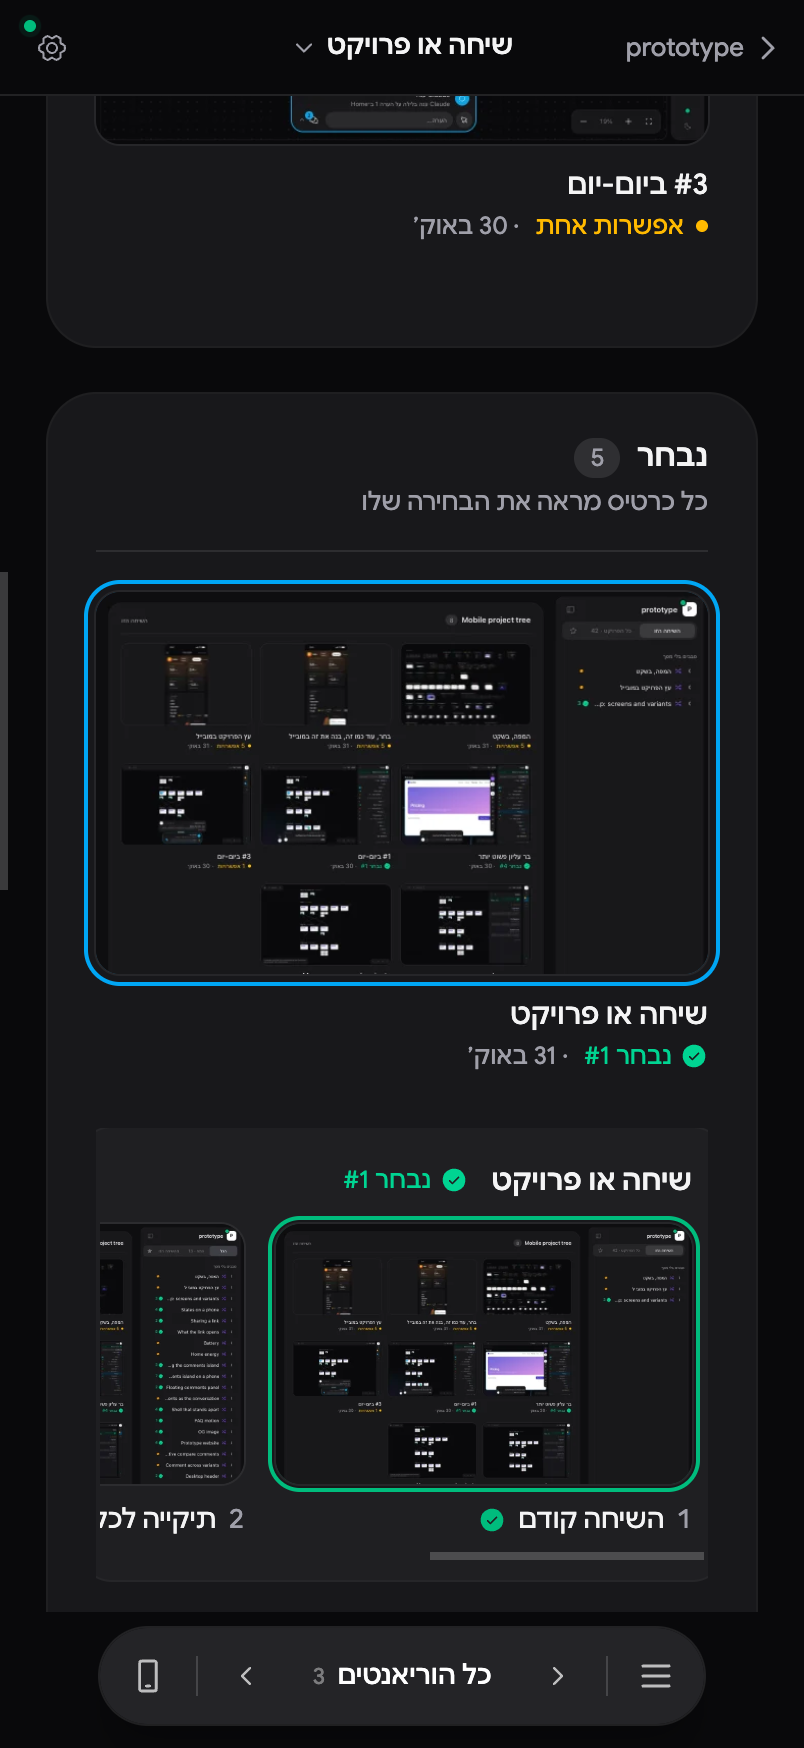
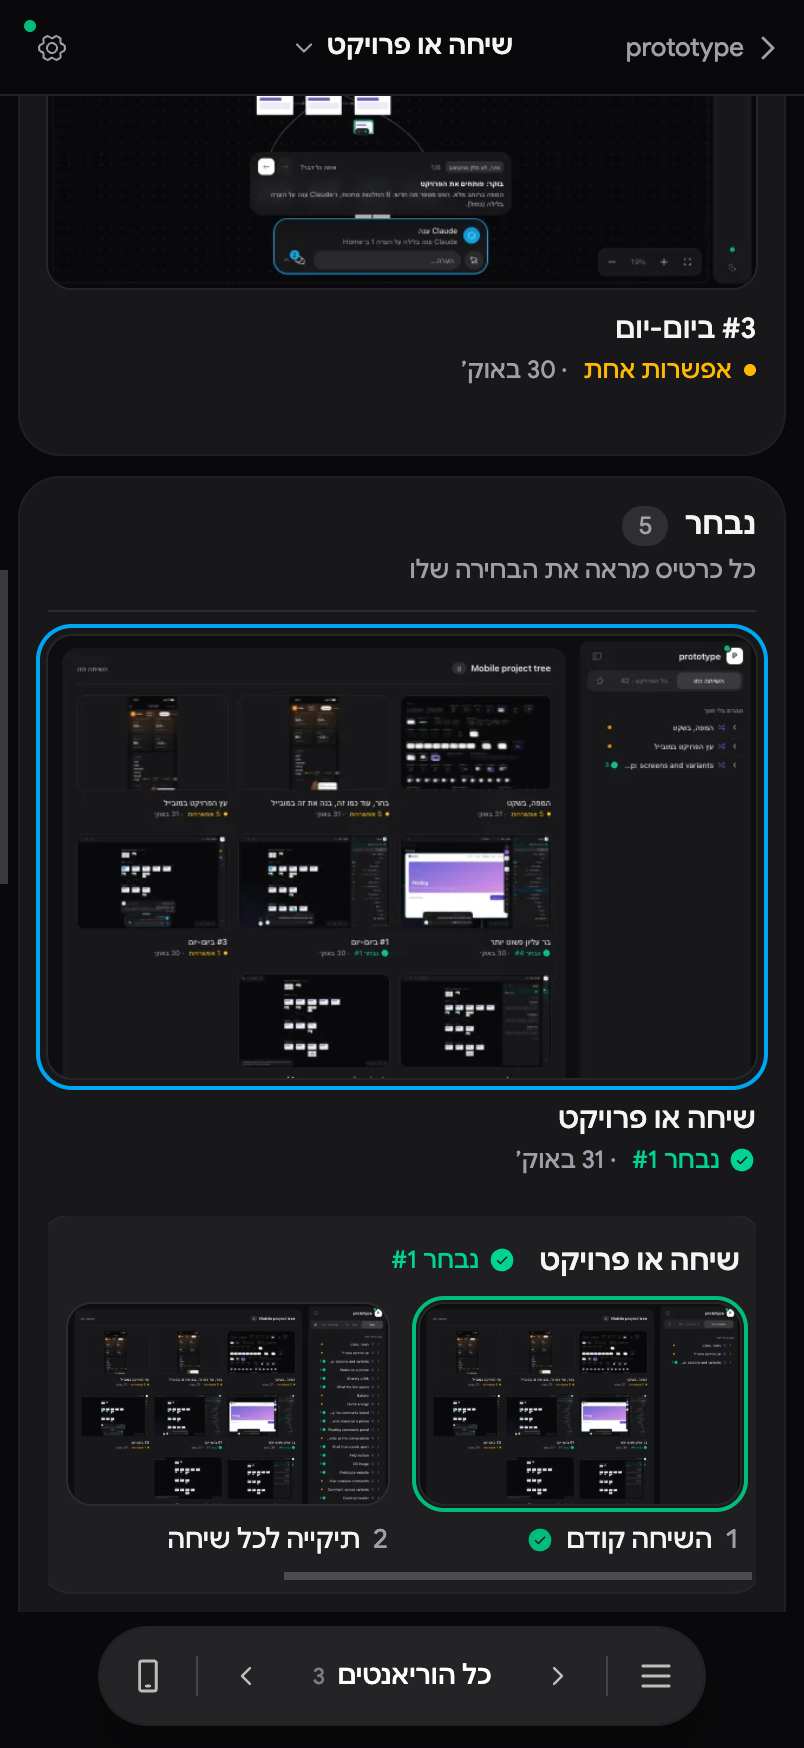
fix: less padding around the gallery on a phone

diff --git a/app/shell/map/gallery.tsx b/app/shell/map/gallery.tsx
@@ -46,7 +46,7 @@ function useInView<T extends HTMLElement>() {
 function Card({ p, on, dim, pic, onClick }: { p: Proto; on: boolean; dim: boolean; pic: Pic; onClick: () => void }) {
   const [ref, seen] = useInView<HTMLButtonElement>()
   return (
-    <button ref={ref} type="button" data-gallery-card={p.id} aria-expanded={on} onClick={onClick} className={`group min-w-0 pb-7 text-start transition-opacity duration-300 ${dim ? 'opacity-50 hover:opacity-80' : ''}`}>
+    <button ref={ref} type="button" data-gallery-card={p.id} aria-expanded={on} onClick={onClick} className={`group min-w-0 pb-5 text-start sm:pb-7 transition-opacity duration-300 ${dim ? 'opacity-50 hover:opacity-80' : ''}`}>
       <div className={`rounded-xl ring-sky-500 ring-offset-[var(--desk-card)] transition-[box-shadow,transform] duration-300 ${on ? 'ring-2 ring-offset-4' : 'group-hover:-translate-y-0.5'}`} style={{ transitionTimingFunction: EASE_OUT }}>
         <Thumb p={p} letter={p.picked ?? p.variants[0]?.id ?? 'A'} pic={pic} want={seen} />
       </div>
@@ -71,13 +71,13 @@ function Drawer({ p, pic, open }: { p: Proto | null; pic: Pic; open: (route: str
     <div ref={box} className={`col-span-full grid transition-[grid-template-rows,opacity] motion-reduce:transition-none ${p ? 'grid-rows-[1fr] opacity-100 duration-[340ms]' : 'grid-rows-[0fr] opacity-0 duration-[240ms]'}`} style={{ transitionTimingFunction: p ? EASE_OUT : EASE_IN }}
       onTransitionEnd={e => { if (!p && e.target === e.currentTarget && e.propertyName === 'grid-template-rows') setShown(null) }}>
       <div className="min-h-0 overflow-hidden">{shown && (
-        <div className="pb-7">
-          <div data-gallery-options={shown.id} className="-mx-2 rounded-2xl bg-zinc-900/[.03] p-4 ring-1 ring-black/[.06] dark:bg-white/[.03] dark:ring-white/[.06]">
+        <div className="pb-5 sm:pb-7">
+          <div data-gallery-options={shown.id} className="-mx-1 rounded-2xl bg-zinc-900/[.03] p-3 sm:-mx-2 sm:p-4 ring-1 ring-black/[.06] dark:bg-white/[.03] dark:ring-white/[.06]">
             <div className="mb-3 flex items-center gap-3 text-sm"><b dir="auto" className="font-semibold">{shown.title}</b><Status p={shown} /></div>
             <div className="-m-1.5 flex gap-4 overflow-x-auto p-1.5 pb-2.5 [scrollbar-width:thin]">
               {shown.variants.map((v, i) => (
                 <button key={v.id} type="button" data-gallery-option={`${shown.id}/${v.id}`} onClick={() => open(`${shown.id}/${v.id}`)} title={t('Open')}
-                  className="group w-52 shrink-0 text-start motion-safe:animate-[proto-gallery-rise_.4s_cubic-bezier(.32,.72,0,1)_both]" style={{ animationDelay: `${60 + i * 35}ms` }}>
+                  className="group w-40 shrink-0 text-start sm:w-52 motion-safe:animate-[proto-gallery-rise_.4s_cubic-bezier(.32,.72,0,1)_both]" style={{ animationDelay: `${60 + i * 35}ms` }}>
                   <div className={`rounded-xl transition-transform duration-200 group-hover:-translate-y-0.5 ${shown.picked === v.id ? 'ring-2 ring-emerald-500 ring-offset-2 ring-offset-[var(--desk-card)]' : ''}`}><Thumb p={shown} letter={v.id} pic={pic} want /></div>
                   <div className="mt-2 flex items-center gap-1.5 text-[13px]"><span className="tabular-nums text-zinc-400">{numberOf(v.id)}</span><span dir="auto" className="truncate">{v.name}</span>{shown.picked === v.id && <Ph name="checkFill" className="size-3.5 text-emerald-500" />}</div>
                 </button>
@@ -95,13 +95,13 @@ function Section({ id, title, hint, list, cols, pic, open, openId, setOpenId }: 
   const rows = Array.from({ length: Math.ceil(list.length / cols) }, (_, r) => list.slice(r * cols, r * cols + cols))
   const here = list.some(p => p.id === openId)
   return (
-    <section data-gallery-section={id} className="mb-6 rounded-3xl bg-[var(--desk-card)] p-6 pt-5 ring-1 ring-[var(--desk-line)]">
-      <header className="mb-5 flex flex-wrap items-baseline gap-x-2 gap-y-1 border-b border-[var(--desk-line)] pb-4">
+    <section data-gallery-section={id} className="mb-3 rounded-[20px] bg-[var(--desk-card)] p-3.5 pt-3 ring-1 ring-[var(--desk-line)] sm:mb-6 sm:rounded-3xl sm:p-6 sm:pt-5">
+      <header className="mb-3 flex flex-wrap items-baseline gap-x-2 gap-y-1 border-b border-[var(--desk-line)] pb-3 sm:mb-5 sm:pb-4">
         <h2 dir="auto" className="whitespace-nowrap text-[15px] font-semibold">{title}</h2>
         <span className="rounded-full bg-zinc-900/5 px-2 py-0.5 text-xs tabular-nums text-zinc-500 dark:bg-white/10 dark:text-zinc-400">{list.length}</span>
         <span className="w-full text-xs text-zinc-400 sm:ms-auto sm:w-auto">{hint}</span>
       </header>
-      <div className="grid gap-x-5" style={{ gridTemplateColumns: `repeat(${cols}, minmax(0, 1fr))` }}>
+      <div className="grid gap-x-3 sm:gap-x-5" style={{ gridTemplateColumns: `repeat(${cols}, minmax(0, 1fr))` }}>
         {rows.map((row, r) => (
           <Fragment key={r}>
             {row.map(p => <Card key={p.id} p={p} on={openId === p.id} dim={here && openId !== p.id} pic={pic} onClick={() => setOpenId(openId === p.id ? '' : p.id)} />)}
@@ -118,8 +118,8 @@ type Conv = { sid: string; name: string; at: string; n: number; picked: number }
 /** The other conversations, one line each: opening one scopes the page (and the tree) to it. */
 function Past({ convs, setScope }: { convs: Conv[]; setScope: (scope: string) => void }) {
   return (
-    <section data-gallery-section="past" className="mb-6 rounded-3xl bg-[var(--desk-card)] p-6 pt-5 ring-1 ring-[var(--desk-line)]">
-      <header className="mb-3 flex flex-wrap items-baseline gap-x-2 gap-y-1 border-b border-[var(--desk-line)] pb-4">
+    <section data-gallery-section="past" className="mb-3 rounded-[20px] bg-[var(--desk-card)] p-3.5 pt-3 ring-1 ring-[var(--desk-line)] sm:mb-6 sm:rounded-3xl sm:p-6 sm:pt-5">
+      <header className="mb-3 flex flex-wrap items-baseline gap-x-2 gap-y-1 border-b border-[var(--desk-line)] pb-3 sm:pb-4">
         <h2 className="whitespace-nowrap text-[15px] font-semibold">{t('Past conversations')}</h2>
         <span className="rounded-full bg-zinc-900/5 px-2 py-0.5 text-xs tabular-nums text-zinc-500 dark:bg-white/10 dark:text-zinc-400">{convs.length}</span>
         <span className="w-full text-xs text-zinc-400 sm:ms-auto sm:w-auto">{t('Open one to see its explorations')}</span>
@@ -149,6 +149,8 @@ export function Gallery({ input, pic, open, safe, head, setScope }: { input: Map
     return () => ro.disconnect()
   }, [safe.l, safe.r])
   const cols = COLS_AT.find(([at]) => width >= at)?.[1] ?? 1
+  // A phone keeps its width for the cards: a thin margin instead of the desk's.
+  const pad = width > 0 && width < 560 ? 10 : 24
   const live = useMemo(() => input.protos.filter(p => !p.archived).sort((a, b) => b.created.localeCompare(a.created)), [input.protos])
   const [openId, setOpenId] = useState('')
   const scope = input.scope ?? 'all', sid = scope.startsWith('conv:') ? scope.slice('conv:'.length) : ''
@@ -163,7 +165,7 @@ export function Gallery({ input, pic, open, safe, head, setScope }: { input: Map
   }, [input.frame])
   return (
     <div ref={scroller} data-gallery className={'absolute inset-0 overflow-y-auto overscroll-contain ' + (input.hidden ? 'hidden' : '')}
-      style={{ paddingLeft: safe.l + 24, paddingRight: safe.r + 24, paddingTop: safe.t + 14, paddingBottom: safe.b + 120 }}>
+      style={{ paddingLeft: safe.l + pad, paddingRight: safe.r + pad, paddingTop: safe.t + 14, paddingBottom: safe.b + 120 }}>
       <style>{'@keyframes proto-gallery-rise{from{opacity:0;transform:translateY(8px)}to{opacity:1;transform:none}}'}</style>
       <div className="mx-auto max-w-[1600px]">
         {head && <div className="mb-4 flex justify-center">{head}</div>}
